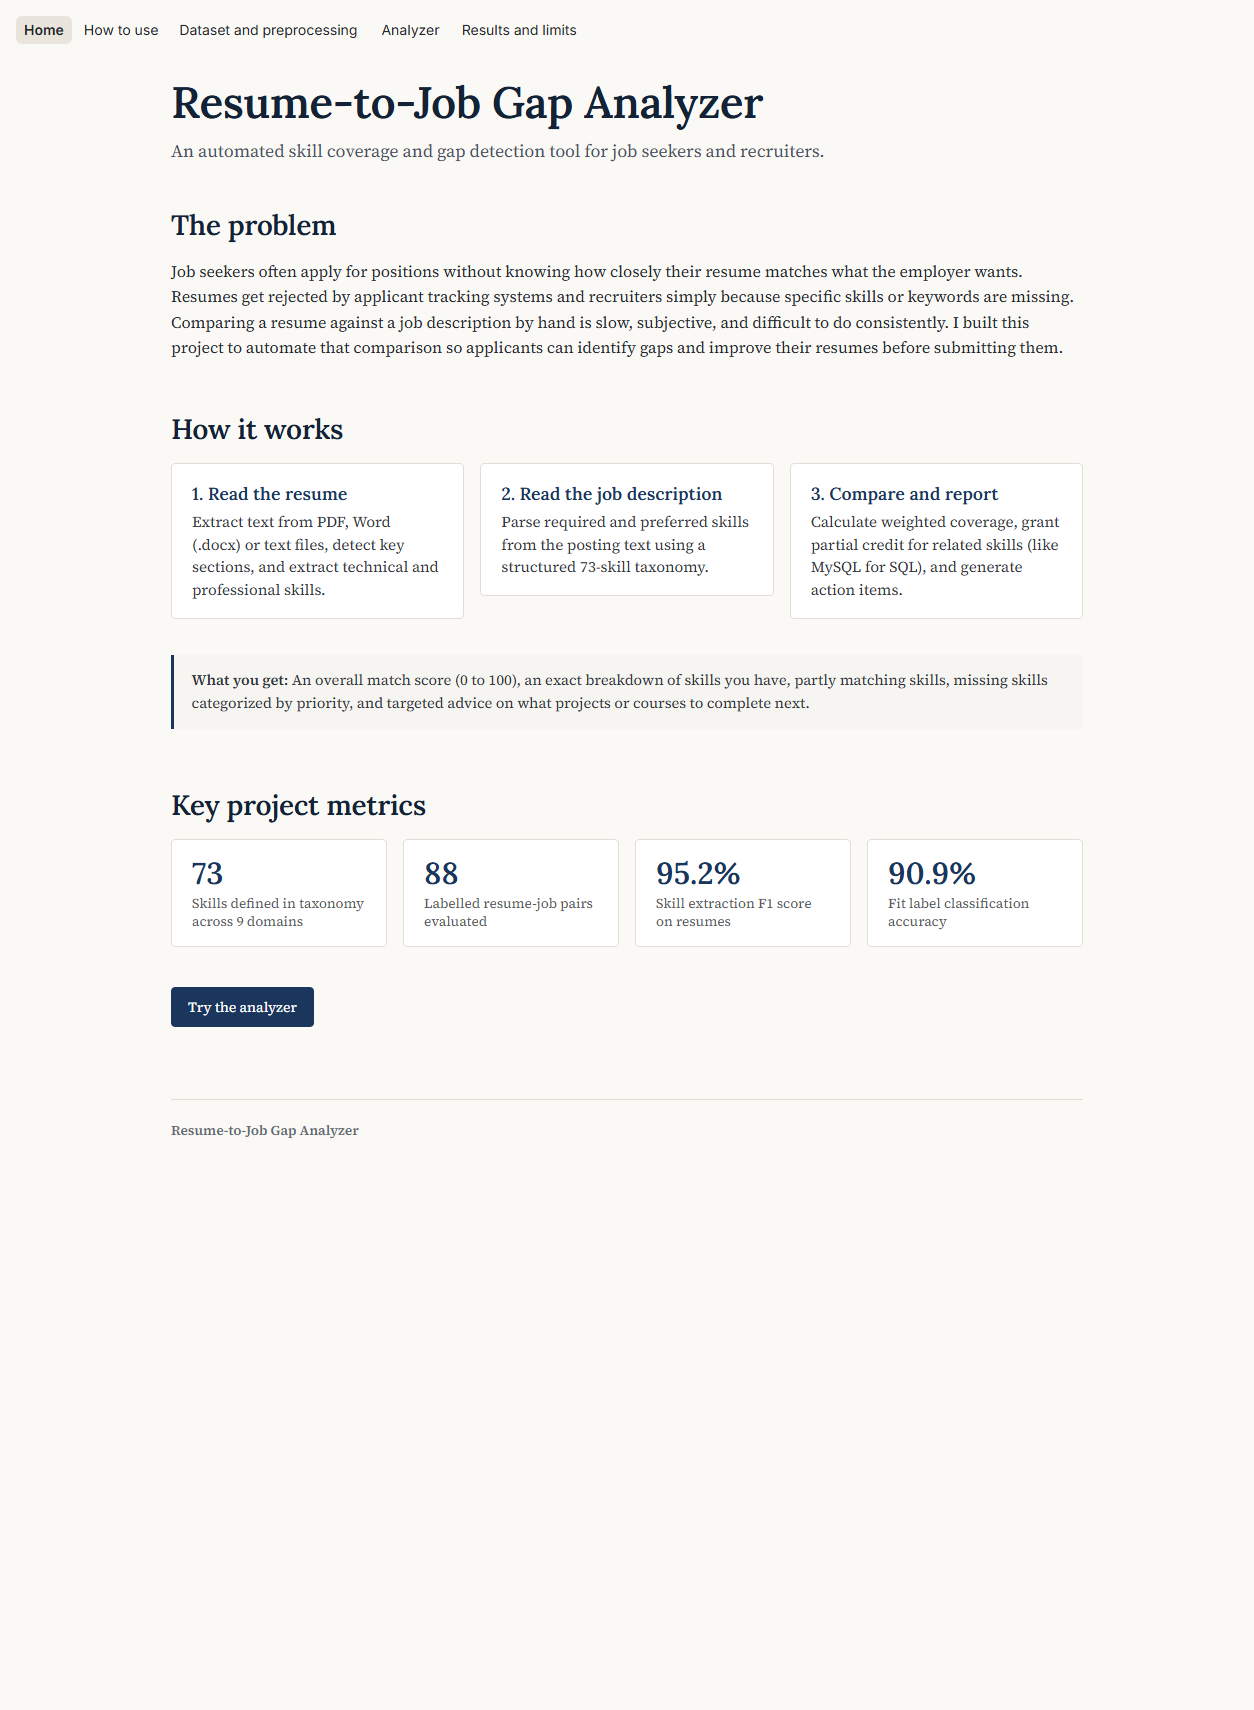
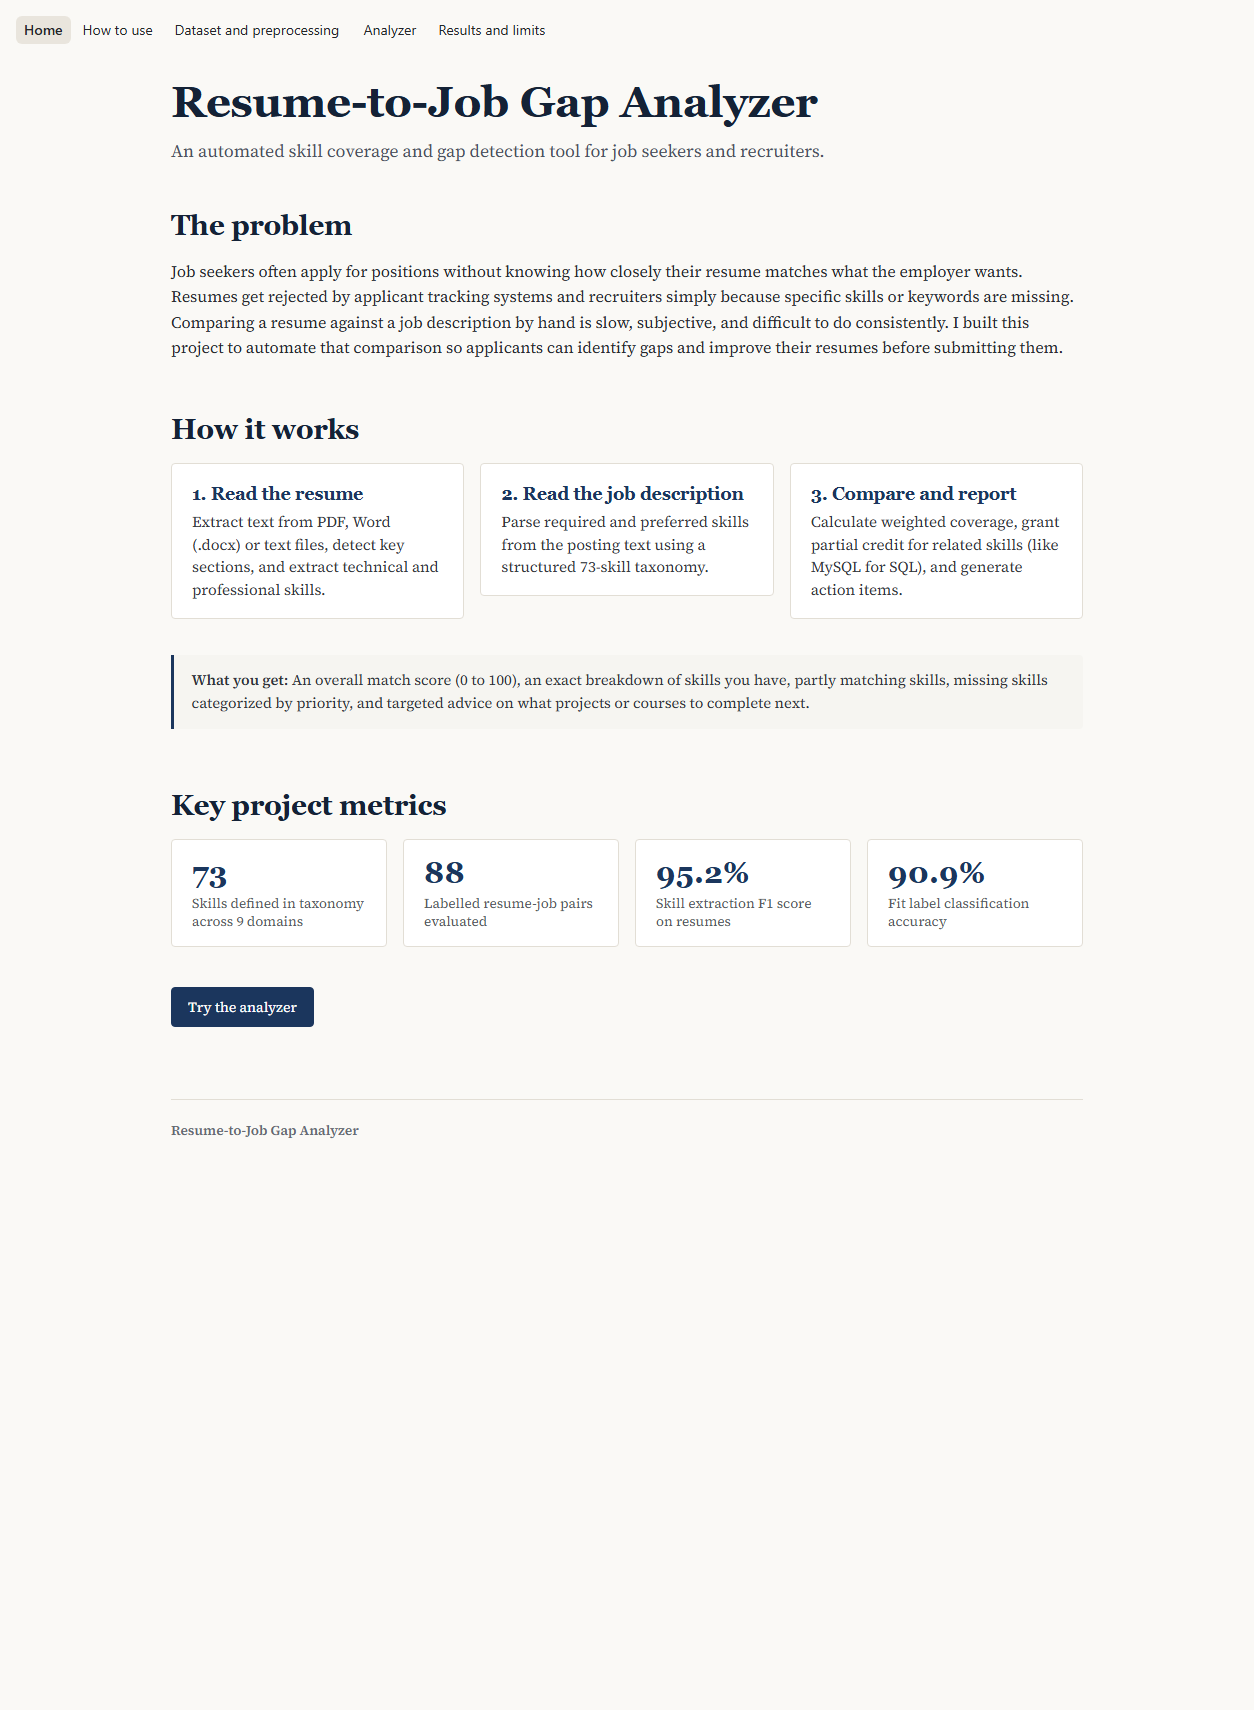
Hide Streamlit Cloud Fork button and GitHub action links from top header

diff --git a/ui_components.py b/ui_components.py
@@ -44,23 +44,34 @@ h1, h2, h3, h4, h5, h6,
     letter-spacing: -0.01em;
 }
 
-/* Hide default streamlit chrome, menu, footer */
-#MainMenu { visibility: hidden !important; }
-footer { visibility: hidden !important; }
+/* Hide default streamlit chrome */
+#MainMenu { visibility: hidden; }
+footer { visibility: hidden; }
 [data-testid="stSidebar"] { display: none !important; }
 [data-testid="stSidebarCollapsedControl"] { display: none !important; }
 
-/* Hide only the Fork button and GitHub icon in the top-right cloud toolbar,
-   without touching the navigation bar */
+/* Hide Streamlit Community Cloud 'Fork' button and GitHub repository link */
+[data-testid="stHeaderActionElements"],
+[data-testid="stToolbarAction"],
+[data-testid="stForkButton"],
+[data-testid="stToolbar"] a,
 header a[href*="github.com"],
-[data-testid="stToolbarActions"] a[href*="github"],
-[data-testid="stToolbarActions"] [class*="fork"],
-[data-testid="stToolbarActions"] [class*="Fork"],
-[data-testid="stToolbarActions"] [title*="Fork"],
-[data-testid="stToolbarActions"] [aria-label*="fork"],
-[data-testid="stToolbarActions"] [aria-label*="Fork"] {
+header a[href*="fork"],
+header a[title*="Fork"],
+header a[aria-label*="Fork"],
+header button[title*="Fork"],
+header button[aria-label*="Fork"],
+.stAppHeader a[href*="github.com"],
+.stAppToolbar a[href*="github.com"],
+header [data-testid="stHeaderActionElements"] *,
+div:has(> a[href*="github.com"]),
+div:has(> a[title*="Fork"]) {
     display: none !important;
     visibility: hidden !important;
+    opacity: 0 !important;
+    pointer-events: none !important;
+    width: 0 !important;
+    height: 0 !important;
 }
 
 /* Constrain main block width for reading comfort */
